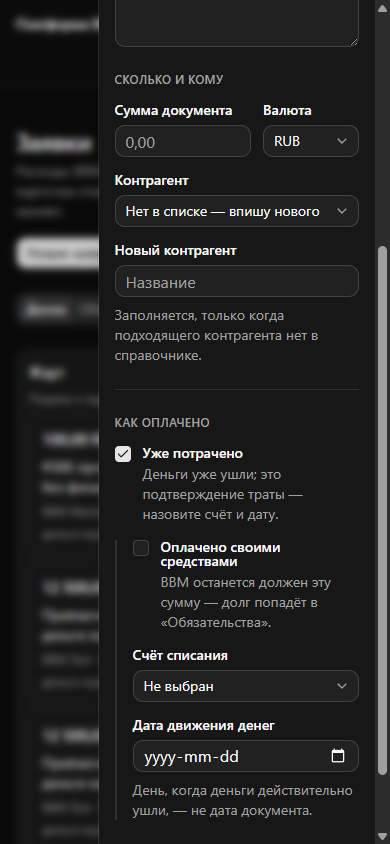
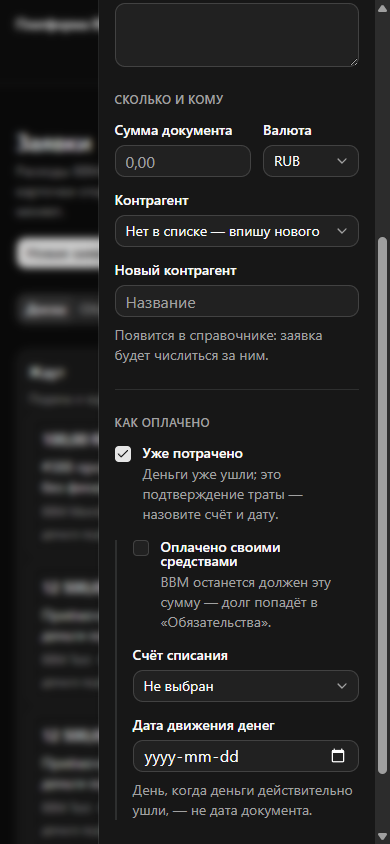
docs(evidence): record the two fixes and the drag states the owner's pass asked for (388)
The README's last write predated `1010fb4` / `c87c89a`, so the acceptance
package still told the owner the 390 px sideways scroll was found and NOT
fixed — in the very ten mobile frames `9fd4eca` had replaced to show it fixed
(review round 4, BLOCKER). That paragraph now records the defect, the two
RED → GREEN pairs that closed it and the after-measurement on the same live
stand: sheet `scrollWidth` 277 == `clientWidth` 277, «Назначение» trigger right
edge x=359, «Сумма документа» 137 px.

Added beside it: the two defects the owner's own pass on the stand found — the
card that answered a drag with a text selection, and «Новый контрагент» asked
under a counterparty already picked — each with its mechanism, its measurement
and its commit pair.

Frames: `09`, `23`, `24`, `32`, `33` re-driven on this head at BOTH breakpoints
× both themes and replaced in place (20), plus the two NEW states `34` (a legal
drag in flight, «Одобрены» lit, nothing selected) and `35` (the act that drop
opened — «Ждут» still 9 cards, so no status moved by itself), desktop-only by
the nature of a pointer drag and said so in the matrix note.

Claude-Session: https://claude.ai/code/session_01YMebSF4LTswAvpbMn3esyM

diff --git a/docs/evidence/388/README.md b/docs/evidence/388/README.md
@@ -71,9 +71,15 @@ state), never hoped for from a pointer.
 | 31   | the posting dialog's «Провести» under CDP-FORCED `:hover`, `:focus-visible` and `:active` (desktop, both)           |
 | 32   | «Продажи курса» on «Фонд BBM» — the disabled product field: the FACT in its description, the instruction on submit  |
 | 33   | «Продажи курса» with NO project yet — the «Продукт» field is not on the form at all, and no project is blamed       |
+| 34   | a LEGAL drag in flight — «Одобрены» carries the drop treatment and no text is selected (desktop)                    |
+| 35   | the act that drop opened — «Одобрить» in the sheet; «Ждут» still holds 9 cards, so nothing moved by itself          |
 
 Steps 14 and 31 are set through one `CSS.forcePseudoState` CDP session per state
-on the located element, never hoped for from a pointer.
+on the located element, never hoped for from a pointer. Steps **34 and 35 are
+desktop-only**, and that is the nature of the state rather than a gap in the
+matrix: a native HTML5 drag needs a pointer that presses and travels, which a
+touch screen does not give. The board never depended on it — every act the drag
+opens also lives in the sheet, reachable by tap and by keyboard.
 
 **The journey the second pass drove**, in order, as one member-then-finance
 story: file a pre-spend request (23 → 24 → 09 → 21), see it on the board and in
@@ -264,16 +270,57 @@ a property of the base, not of the forcing. Everything else — 2470 / 1094 /
 2589 px — is inside the CTA. The earlier «every changed pixel» wording is
 replaced by this count.
 
-**The defect this pass found, and did NOT fix: «Новая заявка» scrolls sideways at
-390 px.** Measured live in the DOM, both before and after a submit: the sheet's
-`clientWidth` is 277 px while its `scrollWidth` is 299 px, because the
-«Назначение» `SelectTrigger` and its label have an intrinsic width of 281–283 px
-and end at x=398 — 8 px past the 390 px viewport. The form therefore carries a
-horizontal scrollbar and the select's chevron sits off-screen. It is visible in
-`09`, `23`, `24`, `32` and `33` at both mobile themes, and it is NOT a
-regression of this head: the frames the fourth and fifth passes left on file
-show the identical strip. Filed as an observation on PR #470 rather than fixed
-here, because a stage-5 journey does not change code.
+**The defect this pass found, and FIXED: «Новая заявка» scrolled sideways at
+390 px.** The journey measured it live in the DOM, before and after a submit:
+the sheet's `clientWidth` was 277 px while its `scrollWidth` was 299 px, because
+the «Назначение» `SelectTrigger` and its label had an intrinsic width of
+281–283 px and ended at x=398 — 8 px past the 390 px viewport, so the form
+carried a horizontal scrollbar and the select's chevron sat off-screen. It was
+NOT a regression of this head: the frames the fourth and fifth passes left on
+file show the identical strip.
+
+It was then fixed in this PR, test-first, in two RED → GREEN pairs — `266082f`
+→ `1010fb4` (`min-w-0` on every `SelectTrigger` of the surface, so the grid
+column stops taking the longest option's min-content as its floor) and
+`232c397` → `c87c89a` (the currency cell takes `6rem` below `sm`, so «Сумма
+документа» keeps a usable width once the sheet no longer grows). **After the
+fix, measured on the same live stand at 390×844:** the sheet's `scrollWidth` is
+**277 px == its `clientWidth`, 277 px**, the «Назначение» trigger's right edge
+is at x=359 instead of x=398, and the «Сумма документа» input measures 137 px
+instead of 88.5 px. Frames `09`, `23`, `24`, `32` and `33` were re-driven on the
+fixed head and replaced in place at both breakpoints and both themes; every one
+of those captures asserts `scrollWidth <= clientWidth` before it shoots, and the
+run log for each of the four combinations prints the measurement it asserted.
+
+**Two defects the owner's own pass on the live stand found, and both FIXED
+here.**
+
+- **Dragging a card «only selected text».** The drag machinery was correct — a
+  raw-pointer drag «Ждут» → «Одобрены» fires `dragstart`, the column's
+  `dragover` calls `preventDefault`, the drop lands and the approve act opens.
+  What the owner met was the rest of the board: Chromium suppresses text
+  selection only INSIDE a `[draggable="true"]` subtree, so every card the
+  reader cannot drag — the two archive columns, and every card at all for a
+  reader without `finance-approve` — answered a press-and-drag by selecting its
+  own body. Measured before the fix: a «Проведены» card read `user-select: auto`
+  and a drag attempt on it selected «… · Фонд BBM / операция в реестре ·
+  08.09.2026 …», while the «Ждут» card beside it read `none` and dragged.
+  `select-none` now sits on the card unconditionally. The same report's other
+  half — a native drag paints a ghost and gives the TARGET nothing, so a drag
+  that works looks like one that does not — is answered by states **34** and
+  **35** below. RED → GREEN: `46b197b` → `8af6db5`.
+- **«Новый контрагент» was asked even when one was picked from the reference.**
+  EARS-508/532 asks for ONE counterparty, «picked from the reference or created
+  inline»; the free-text field stood under the select unconditionally, and
+  nothing on the screen said which of the two would be filed. It is now
+  rendered only while the select stands on «Нет в списке — впишу нового»,
+  `toRequestBody` drops the free text whenever a reference id is set (for BOTH
+  exclusive pairs — an unrendered field keeps its value), and the API gained
+  the refusal its purpose pair already had: a body naming both was accepted and
+  `resolveRequestCounterpartyId` preferred the NAME, filing against a
+  counterparty the member never picked. RED → GREEN: `1061aec` → `4a6a254`.
+  Visible in the re-taken `32` frames: «Контрагент: Yandex Cloud» with no
+  free-text field beneath it.
 
 **Step 13 changed meaning, deliberately.** `bbm-member` reads `canApprove:false,
 canEnter:false` but the reference tables come back full, and filing is NOT gated
@@ -283,6 +330,13 @@ not a leak, and the state worth accepting is not «empty» but «the reader sees
 only their OWN card and none of the approver's acts». The frames were re-taken
 after that probe and show exactly that: one card in «Ждут», and no «Одобрить» /
 «Провести» / «Отклонить…» anywhere.
+
+**A SIXTH pass** — the one that answers the owner's two live-stand reports and
+the review's evidence blocker — re-drove `09`, `23`, `24`, `32`, `33` at BOTH
+breakpoints and both themes on head `348d1aa`, and drove the two new drag
+states `34` / `35`. It filed nothing: the form states end in a refusal and the
+drag ends in an act that was closed, not run, so the row list below is
+unchanged by it.
 
 **Rows this pass changed in `platform_388`.** Eight requests filed through the
 form — four pre-spend intents (**#82, #84, #86, #88**, all approved, documented
